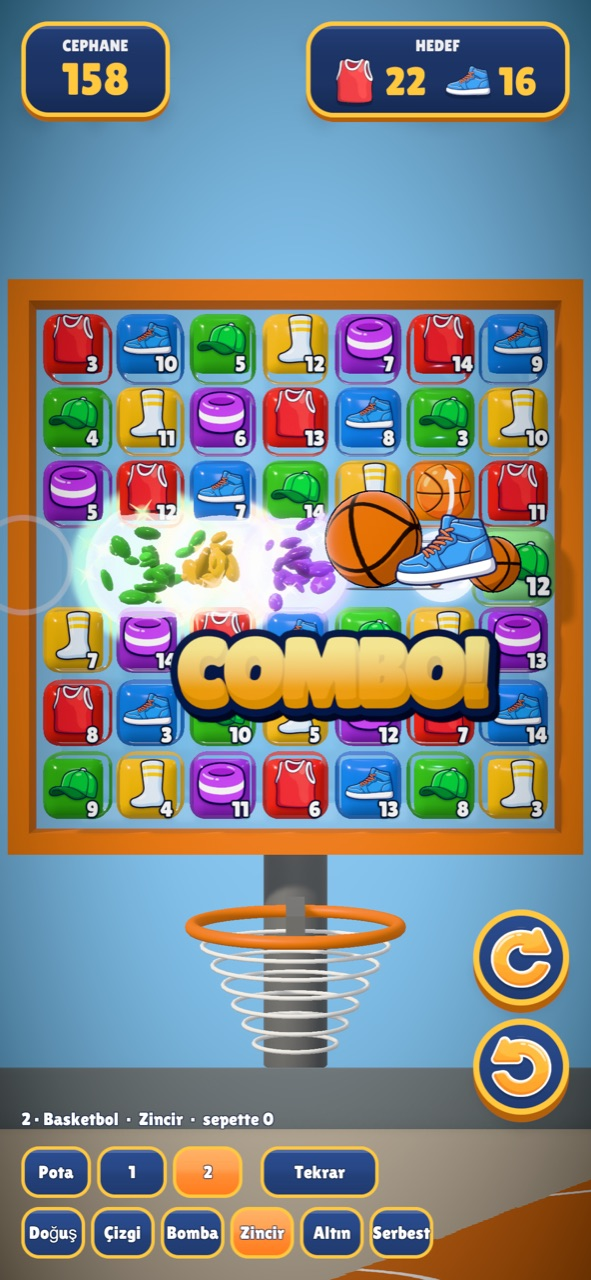
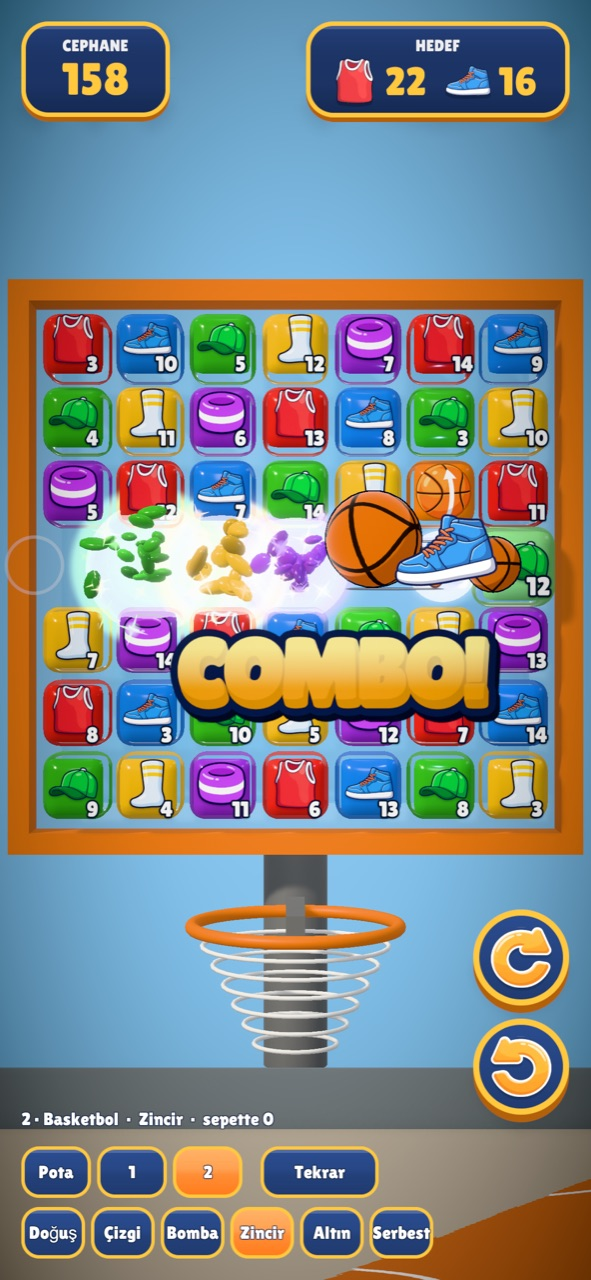
fix: special looks polish — Royal leaves chained specials in place under the bomb push, Court's second SLAM! moves to its dunk, the swish ring stays on screen, gathers carry a ticket

Changed region(s): [[0.0, 0.375, 0.5787, 0.5]]

diff --git a/Assets/_Project/Games/Pota/Tests/PlayMode/SpecialPlayTests.cs b/Assets/_Project/Games/Pota/Tests/PlayMode/SpecialPlayTests.cs
@@ -1,6 +1,7 @@
 using System;
 using System.Collections;
 using System.Collections.Generic;
+using System.Reflection;
 using NUnit.Framework;
 using Project.ColorHunt;
 using UnityEngine;
@@ -284,6 +285,72 @@ namespace Project.Tests
             AssertViewsShowTheBoard(game, "after the grace");
             Assert.AreEqual("broken", game.Tap(FirstNormal(game.Board)), "the board plays on");
             yield return StudioLookPlayTests.WaitUntil(() => !game.Busy, 10f);
+        }
+
+        /// <summary>
+        /// GatherGrace settles a gathered view without bumping the special generation; if the pool later hands that same view to a
+        /// fresh gather, a late "arrived" from the first (settled) gather must not touch the second (a per-gather ticket, not just the
+        /// view's identity). Drives the game's own private gather bookkeeping directly (reflection) so the reuse is deterministic,
+        /// instead of waiting on real RNG-driven refills to reuse the exact pooled instance.
+        /// </summary>
+        [UnityTest]
+        public IEnumerator GatherTicket_AStaleArrival_IgnoresAFreshGatherAtTheSameView()
+        {
+            ColorHuntGame game = null;
+            yield return Load(g => game = g);
+            var stuck = new StuckGatherStyle();
+            game.UseSpecialStyle(SpecialLook.Court, stuck);
+            game.SetSpecialLook(SpecialLook.Court);
+            Deal(game, Board7(new int[0]));
+
+            var gameType = typeof(ColorHuntGame);
+            var stepJobType = gameType.GetNestedType("StepJob", BindingFlags.NonPublic);
+            var stepField = stepJobType.GetField("Step", BindingFlags.Public | BindingFlags.Instance);
+            var gatherMethod = gameType.GetMethod("GatherBirthGroups", BindingFlags.NonPublic | BindingFlags.Instance);
+            var tickGathers = gameType.GetMethod("TickGathers", BindingFlags.NonPublic | BindingFlags.Instance);
+            var newView = gameType.GetMethod("NewView", BindingFlags.NonPublic | BindingFlags.Instance);
+            var viewsField = gameType.GetField("_views", BindingFlags.NonPublic | BindingFlags.Instance);
+            var views = (Dictionary<int, BlockView>)viewsField.GetValue(game);
+            var gatheringField = gameType.GetField("_gathering", BindingFlags.NonPublic | BindingFlags.Instance);
+            var gathering = (System.Collections.IDictionary)gatheringField.GetValue(game);
+
+            object MakeStepJob(int bornCell, int groupCell)
+            {
+                var step = new Step();
+                step.Exploded.Add(groupCell);
+                step.Born.Add(new Born { Cell = bornCell, Kind = SpecialKind.LineH, Group = new[] { groupCell } });
+                var job = Activator.CreateInstance(stepJobType, true);
+                stepField.SetValue(job, step);
+                return job;
+            }
+
+            var v11 = game.ViewAt(11);
+            Assert.IsNotNull(v11);
+            gatherMethod.Invoke(game, new[] { MakeStepJob(10, 11) });
+            Assert.AreEqual(1, stuck.Held.Count, "cell 11 was gathered (round 1)");
+            var staleArrival = stuck.Held[0];
+            stuck.Held.Clear();
+
+            tickGathers.Invoke(game, new object[] { ColorHuntGame.GatherGrace + 1f });     // settles round 1 without waiting real time
+            var popped = (BlockView)newView.Invoke(game, new object[] { game.Board.Cells[21], 21, Vector2.zero });
+            Assert.AreSame(v11, popped, "the pool handed back the very view round 1 just recycled");
+            views[21] = popped;                                                            // a refill placing it at a new cell
+
+            var bursts = new List<int>();
+            game.CellBurst += bursts.Add;
+            try
+            {
+                gatherMethod.Invoke(game, new[] { MakeStepJob(20, 21) });
+                Assert.AreEqual(1, stuck.Held.Count, "the reused view was gathered again (round 2), a fresh ticket");
+                Assert.IsTrue(gathering.Contains(v11), "round 2 registered its own gather for the reused view");
+                staleArrival();                                                            // the broken style calls back after all
+                Assert.IsTrue(gathering.Contains(v11), "round 2's gather is untouched by the stale round-1 arrival");
+                CollectionAssert.IsEmpty(bursts, "no CellBurst from the stale round-1 arrival");
+                stuck.Held[0]();                                                           // round 2 arrives for real
+                Assert.IsFalse(gathering.Contains(v11));
+                CollectionAssert.AreEqual(new[] { 21 }, bursts, "round 2 settled once, normally");
+            }
+            finally { game.CellBurst -= bursts.Add; }
         }
     }
 }

diff --git a/Assets/_Project/Games/Pota/Tests/PlayMode/CourtPlayTests.cs b/Assets/_Project/Games/Pota/Tests/PlayMode/CourtPlayTests.cs
@@ -164,6 +164,47 @@ namespace Project.Tests
         }
 
         [UnityTest]
+        public IEnumerator SecondDunk_MovesTheSlamLettering_ToItsOwnSpot()
+        {
+            ColorHuntGame game = null;
+            CourtSpecials court = null;
+            yield return LoadCourt((g, c) => { game = g; court = c; });
+            Deal(game, SpecialPlayTests.Board7(new int[0], (24, SpecialKind.Bomb), (25, SpecialKind.Bomb)));
+            Assert.AreEqual("broken", game.Tap(24), "two bombs, 25 inside 24's 3×3: a chain of two dunks");
+
+            int n = game.Board.Size;
+            float w = game.S.Court.SlamLetterCells, h = w * 0.5f;
+            float mx = Mathf.Max(0f, n * 0.5f - 0.4f - 0.6f * w), my = Mathf.Max(0f, n * 0.5f - 0.4f - 0.6f * h);
+            Vector3 SlamSpot(int cell)
+            {
+                var cellPos = BoardBuilder.CellPosition(n, ColorHuntRules.Row(n, cell), ColorHuntRules.Col(n, cell));
+                var raw = cellPos + new Vector2(0f, 1.1f);
+                var clamped = new Vector2(Mathf.Clamp(raw.x, -mx, mx), Mathf.Clamp(raw.y, -my, my));
+                return game.BoardRoot.TransformPoint(new Vector3(clamped.x, clamped.y, -CourtSpecials.LetterZ));
+            }
+            var firstSpot = SlamSpot(24);
+            var secondSpot = SlamSpot(25);
+
+            bool sawBothAtOnce = false, sawTheSecondSpot = false;
+            float clock = 0f;
+            while (game.Busy && clock < 6f)
+            {
+                bool atFirst = false, atSecond = false;
+                foreach (var t in court.Letters)
+                {
+                    if (Vector3.Distance(t.position, firstSpot) < 0.05f) atFirst = true;
+                    if (Vector3.Distance(t.position, secondSpot) < 0.05f) atSecond = true;
+                }
+                if (atFirst && atSecond) sawBothAtOnce = true;
+                if (atSecond) sawTheSecondSpot = true;
+                clock += Dt;
+                yield return null;
+            }
+            Assert.IsFalse(sawBothAtOnce, "never a SLAM! over both bombs at once (a stacked second copy)");
+            Assert.IsTrue(sawTheSecondSpot, "the re-popped SLAM! moved to the second bomb's spot after its own impact");
+        }
+
+        [UnityTest]
         public IEnumerator Slam_LetteringIsInTheFrame_AndGoneAfterHalfASecond()
         {
             ColorHuntGame game = null;
@@ -218,6 +259,48 @@ namespace Project.Tests
             Assert.Less(nearest, -0.5f * game.S.Court.GatherLift, "a bounce pass lifts toward the camera, over the blocks it crosses");
             for (int i = 0; i < game.Board.Cells.Length; i++)
                 Assert.AreEqual(0f, game.ViewAt(i).transform.localPosition.z, 1e-5f, $"cell {i}: back on the board plane");
+        }
+
+        private static void AssertRingsOnScreen(ColorHuntGame game, CourtSpecials court, string what)
+        {
+            foreach (var ring in court.Rings)
+                foreach (var corner in new[] { new Vector3(-0.5f, -0.5f, 0f), new Vector3(0.5f, -0.5f, 0f), new Vector3(-0.5f, 0.5f, 0f), new Vector3(0.5f, 0.5f, 0f) })
+                {
+                    var v = game.Cam.WorldToViewportPoint(ring.TransformPoint(corner));
+                    Assert.Greater(v.z, 0f, $"{what}: in front of the camera");
+                    Assert.That(v.x, Is.InRange(0f, 1f), $"{what}: not cut at the left or right");
+                    Assert.That(v.y, Is.InRange(0f, 1f), $"{what}: not cut at the top or bottom");
+                }
+        }
+
+        [UnityTest]
+        public IEnumerator SwishRing_StaysInTheFrame_AtBothEndsOfARowAndAColumn()
+        {
+            ColorHuntGame game = null;
+            CourtSpecials court = null;
+            yield return LoadCourt((g, c) => { game = g; court = c; });
+
+            Deal(game, Preset(SpecialScenario.Line));
+            Assert.AreEqual("broken", game.Tap(22), "LineH at (3, 1): a short run left, a long run right");
+            float clock = 0f;
+            while (game.Busy && clock < 6f)
+            {
+                AssertRingsOnScreen(game, court, $"row, {clock:0.00} s");
+                clock += Dt;
+                yield return null;
+            }
+            Assert.IsFalse(game.Busy);
+
+            Deal(game, Preset(SpecialScenario.Line));
+            Assert.AreEqual("broken", game.Tap(19), "LineV at (2, 5): a short run up, a long run down");
+            clock = 0f;
+            while (game.Busy && clock < 6f)
+            {
+                AssertRingsOnScreen(game, court, $"column, {clock:0.00} s");
+                clock += Dt;
+                yield return null;
+            }
+            Assert.IsFalse(game.Busy);
         }
 
         [UnityTest]

diff --git a/Assets/_Project/Games/Pota/Scripts/ColorHunt/Specials/CourtSpecials.cs b/Assets/_Project/Games/Pota/Scripts/ColorHunt/Specials/CourtSpecials.cs
@@ -47,8 +47,8 @@ namespace Project.ColorHunt
         public float LineSweep = 0.3f, SweepCells = 6f;
         [Tooltip("Ball sizes (cells): the stand-in on the cell, the flying balls; their spin (degrees per second).")]
         public float StandInCells = 0.82f, BallCells = 0.72f, BallSpin = 720f;
-        [Tooltip("The frame edge lies this far past the last cell's edge (cells); a ball leaves over ExitCells, shrinking.")]
-        public float EdgeMargin = 0.15f, ExitCells = 0.7f;
+        [Tooltip("A ball leaves over ExitCells past the last cell's outer edge, shrinking.")]
+        public float ExitCells = 0.7f;
         [Tooltip("A passed block hops LineHop cells over LineHopTime, starting when the ball is KickLead cells away (it bursts on arrival).")]
         public float KickLead = 0.6f, LineHop = 0.15f, LineHopTime = 0.12f;
         [Tooltip("The flame tail (vfx-flame-jet): square quad size (cells), one loop (s).")]
@@ -61,7 +61,7 @@ namespace Project.ColorHunt
         [Tooltip("Speed lines (vfx-speed-lines, one-shot): longest stretch along the path, height (cells), play time (s).")]
         public float SpeedLength = 2.6f, SpeedHeight = 0.9f, SpeedTime = 0.25f;
         [Tooltip("White swish ring where a ball meets the frame: from → to (cells) in time; file-swish volume.")]
-        public float SwishRingFrom = 0.5f, SwishRingTo = 1.6f, SwishRingTime = 0.25f, SwishVolume = 0.7f;
+        public float SwishRingFrom = 0.5f, SwishRingTo = 0.9f, SwishRingTime = 0.25f, SwishVolume = 0.7f;
         [Tooltip("The pass whoosh (synth court-pas) volume.")]
         public float PassVolume = 0.8f;
 
@@ -235,6 +235,8 @@ namespace Project.ColorHunt
         }
         /// <summary>The live lettering quads (SLAM!, COMBO!, SWISH!): unit quads scaled in the game root.</summary>
         public IEnumerable<Transform> Letters { get { foreach (var q in _quads) if (q.Kind == Kind.Letter) yield return q.T; } }
+        /// <summary>The live swish-ring quads (a line ball reaching the frame): unit quads scaled in the game root.</summary>
+        public IEnumerable<Transform> Rings { get { foreach (var q in _quads) if (q.Kind == Kind.Ring) yield return q.T; } }
         /// <summary>GiantHoop.Swing calls made by golden landings.</summary>
         public int NetSwings { get; private set; }
         public int Landings { get; private set; }
@@ -743,7 +745,7 @@ namespace Project.ColorHunt
                 b.Fire = f;
                 b.Age = age;
                 b.Dir = dir;
-                b.Edge = cells + 0.5f + t.EdgeMargin;
+                b.Edge = cells + 0.5f;                                                  // the last cell's outer edge, inside the frame bar
                 b.Cells = LineCells(n, row, col, dir, cells);
                 b.NextKick = 0;
                 b.Lead = side == 0;                                                     // the first ball also plays the dribble
@@ -1064,7 +1066,8 @@ namespace Project.ColorHunt
 
         /// <summary>
         /// One word at a time: while the same lettering is still up (the second golden ball of a volley lands 0.12 s after the first,
-        /// a second dunk in a chain) it pops again from its peak where it stands, instead of a second copy stacked half over it.
+        /// a second dunk in a chain) it pops again from its peak at the new spot, instead of a second copy stacked half over it
+        /// (SWISH! always re-pops at the same spot, the hoop; a second SLAM! moves to its own dunk).
         /// </summary>
         private void ShowLetter(Material mat, Vector3 local, float width)
         {
@@ -1072,6 +1075,7 @@ namespace Project.ColorHunt
                 if (live.Kind == Kind.Letter && live.R.sharedMaterial == mat)
                 {
                     live.Age = Mathf.Min(live.Age, 0.1f);
+                    live.At = local;
                     return;
                 }
             var q = TakeQuad(Kind.Letter, mat, LetterOrder);

diff --git a/Assets/_Project/Games/Pota/Scripts/ColorHunt/ColorHuntGame.cs b/Assets/_Project/Games/Pota/Scripts/ColorHunt/ColorHuntGame.cs
@@ -580,6 +580,9 @@ namespace Project.ColorHunt
         private ISpecialStyle _special;
         private readonly Dictionary<SpecialLook, ISpecialStyle> _specialStyles = new Dictionary<SpecialLook, ISpecialStyle>();
         private class GoldenState { public int Col; public bool Passed; public float Age, Life; }
+        /// <summary>One gather's identity: a late "arrived" checks it owns the view's current ticket before touching it (a pooled view
+        /// the grace settled may since have been handed to a fresh gather).</summary>
+        private class GatherTicket { public float TimeLeft; }
         private readonly List<GoldenState> _goldens = new List<GoldenState>();
         /// <summary>Pota gorunenGecisler: the deal's gates, + opened ones at a step's drops, − one per golden ball that passed.</summary>
         private readonly List<int> _shownGates = new List<int>();
@@ -587,7 +590,7 @@ namespace Project.ColorHunt
         /// Birth-group blocks travelling into their birth cell (gathering looks) → game seconds left before the game settles them itself
         /// (GatherTime + <see cref="GatherGrace"/>); the style moves them, the game ticks them.
         /// </summary>
-        private readonly Dictionary<BlockView, float> _gathering = new Dictionary<BlockView, float>();
+        private readonly Dictionary<BlockView, GatherTicket> _gathering = new Dictionary<BlockView, GatherTicket>();
         private readonly List<BlockView> _gatherKeys = new List<BlockView>(), _gatherDue = new List<BlockView>();
         private int _specialGen;
         private GiantHoop _hoop;
@@ -782,9 +785,9 @@ namespace Project.ColorHunt
             _gatherDue.Clear();
             foreach (var v in _gatherKeys)
             {
-                float left = _gathering[v] - dt;
-                _gathering[v] = left;
-                if (left > 0f) continue;
+                var ticket = _gathering[v];
+                ticket.TimeLeft -= dt;
+                if (ticket.TimeLeft > 0f) continue;
                 _gathering.Remove(v);
                 _gatherDue.Add(v);
             }
@@ -823,12 +826,14 @@ namespace Project.ColorHunt
                     if (v == null) continue;
                     gathered.Add(g);
                     _views.Remove(g);
-                    _gathering[v] = time + GatherGrace;
+                    var ticket = new GatherTicket { TimeLeft = time + GatherGrace };
+                    _gathering[v] = ticket;
                     v.Exploding = true;
                     int cell = g;
                     Specials.Gather(v, to, time, arrived =>
                     {
-                        if (gen != _specialGen || !_gathering.Remove(arrived)) return;
+                        if (gen != _specialGen || !_gathering.TryGetValue(arrived, out var current) || current != ticket) return;
+                        _gathering.Remove(arrived);
                         CountItem(arrived, BoardRoot.TransformPoint(new Vector3(arrived.Pos.x, arrived.Pos.y, -PotaLook.FrontZ)));
                         RaiseCellBurst(cell);
                         Recycle(arrived);

diff --git a/Assets/_Project/Games/Pota/Tests/PlayMode/RoyalPlayTests.cs b/Assets/_Project/Games/Pota/Tests/PlayMode/RoyalPlayTests.cs
@@ -28,6 +28,8 @@ namespace Project.Tests
             /// <summary>While on, a gathered block's arrival is kept in <see cref="Held"/> instead of reaching the game (a slow style).</summary>
             public bool HoldArrivals;
             public readonly List<Action> Held = new List<Action>();
+            /// <summary>Every Fire call's cell, in call order.</summary>
+            public readonly List<int> FiredCells = new List<int>();
 
             public CountingRoyal(RoyalSpecials inner) { Inner = inner; }
 
@@ -42,7 +44,7 @@ namespace Project.Tests
             public void Idle(BlockView v, float dt) => Inner.Idle(v, dt);
             public void Birth(BlockView v, SpecialKind kind) => Inner.Birth(v, kind);
             public void TriggerStep(int specials, Vector2 centre) => Inner.TriggerStep(specials, centre);
-            public void Fire(SpecialFire fire) => Inner.Fire(fire);
+            public void Fire(SpecialFire fire) { FiredCells.Add(fire.Cell); Inner.Fire(fire); }
 
             public void Gather(BlockView v, Vector2 to, float duration, Action<BlockView> arrived)
             {
@@ -289,6 +291,31 @@ namespace Project.Tests
             var all = new List<int>();
             foreach (var step in r.Steps) all.AddRange(step.Exploded);
             return all;
+        }
+
+        [UnityTest]
+        public IEnumerator Push_LeavesAChainedSpecial_AtItsHome()
+        {
+            SpecialsDemo demo = null;
+            yield return Load(d => demo = d);
+            var game = demo.Game;
+            var counting = UseCounting(demo);
+            demo.Play(SpecialScenario.Chain, true);
+            yield return StudioLookPlayTests.WaitUntil(() => counting.Inner.PiecesLive > 0, 8f);
+            Assert.IsTrue(counting.FiredCells.Contains(25), "the bomb fired (its shell flew)");
+            Assert.IsFalse(counting.FiredCells.Contains(19), "caught before (2, 5)'s own LineV fires");
+            bool checkedOnce = false;
+            float clock = 0f;
+            while (!counting.FiredCells.Contains(19) && clock < 3f)
+            {
+                var v = game.ViewAt(19);
+                Assert.AreEqual(v.Home, v.Pos, "the chained LineV stays on its cell while the bomb's push moves the 3×3 around it");
+                checkedOnce = true;
+                clock += Time.unscaledDeltaTime;
+                yield return null;
+            }
+            Assert.IsTrue(checkedOnce, "the window between the bomb's push and (2, 5)'s own fire was observed");
+            Assert.IsTrue(counting.FiredCells.Contains(19), "(2, 5) went on to fire itself");
         }
 
         [UnityTest]

diff --git a/Assets/_Project/Games/Pota/Scripts/ColorHunt/Specials/RoyalSpecials.cs b/Assets/_Project/Games/Pota/Scripts/ColorHunt/Specials/RoyalSpecials.cs
@@ -945,7 +945,7 @@ namespace Project.ColorHunt
             {
                 if (c == f.Cell) continue;
                 var v = _game.ViewAt(c);
-                if (v == null || !v.Exploding || !v.gameObject.activeSelf) continue;
+                if (v == null || !v.Exploding || !v.gameObject.activeSelf || v.Block.IsSpecial) continue;   // a chained special fires from its own cell
                 var away = v.Home - f.At;
                 if (away.sqrMagnitude < 1e-6f) continue;
                 v.Pos = v.Home + away.normalized * Tune.PushCells;
